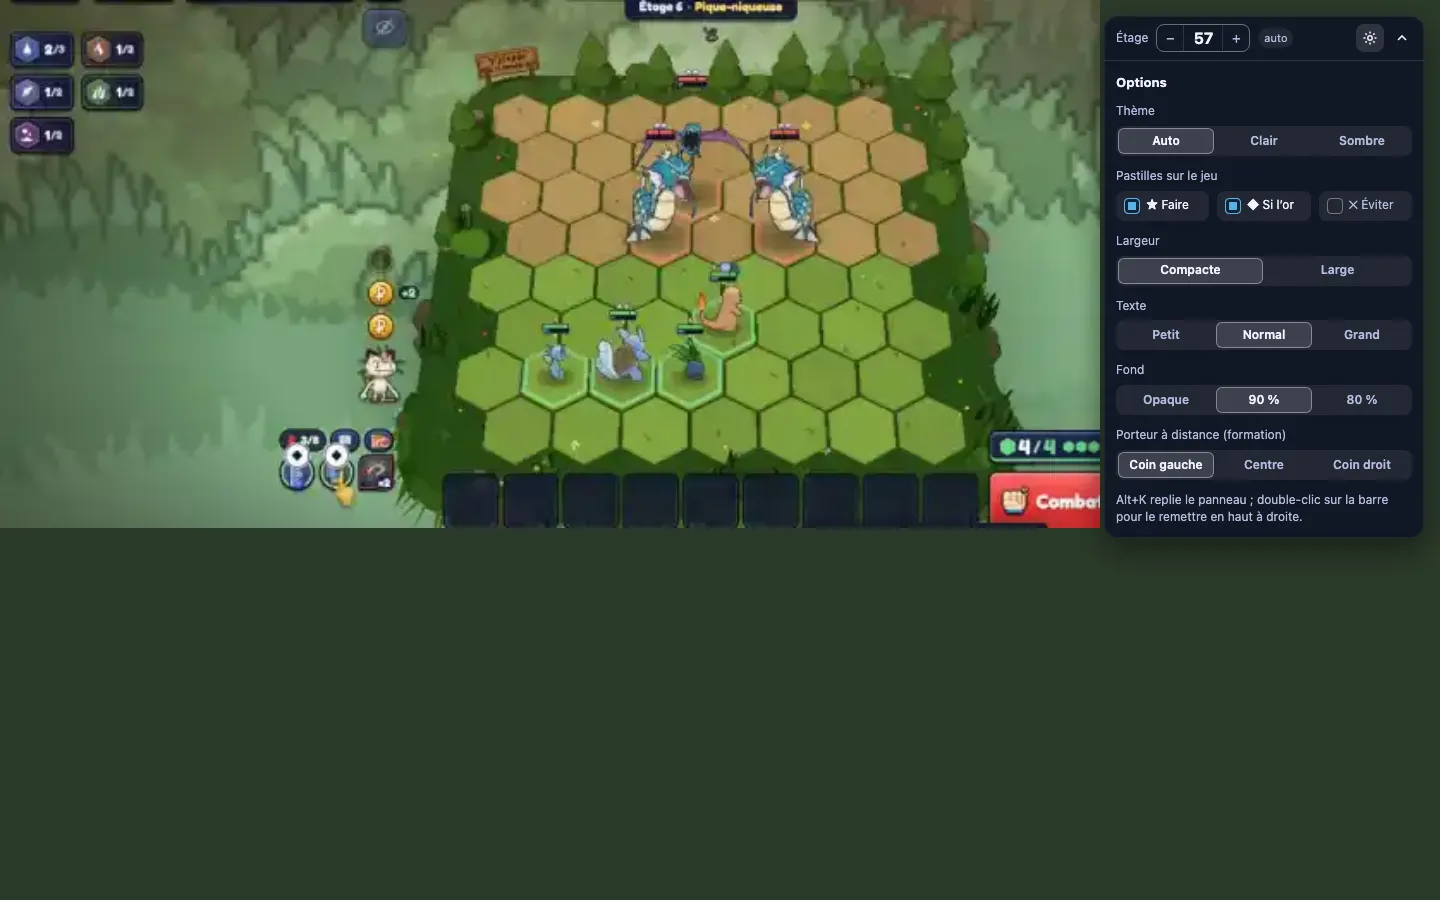
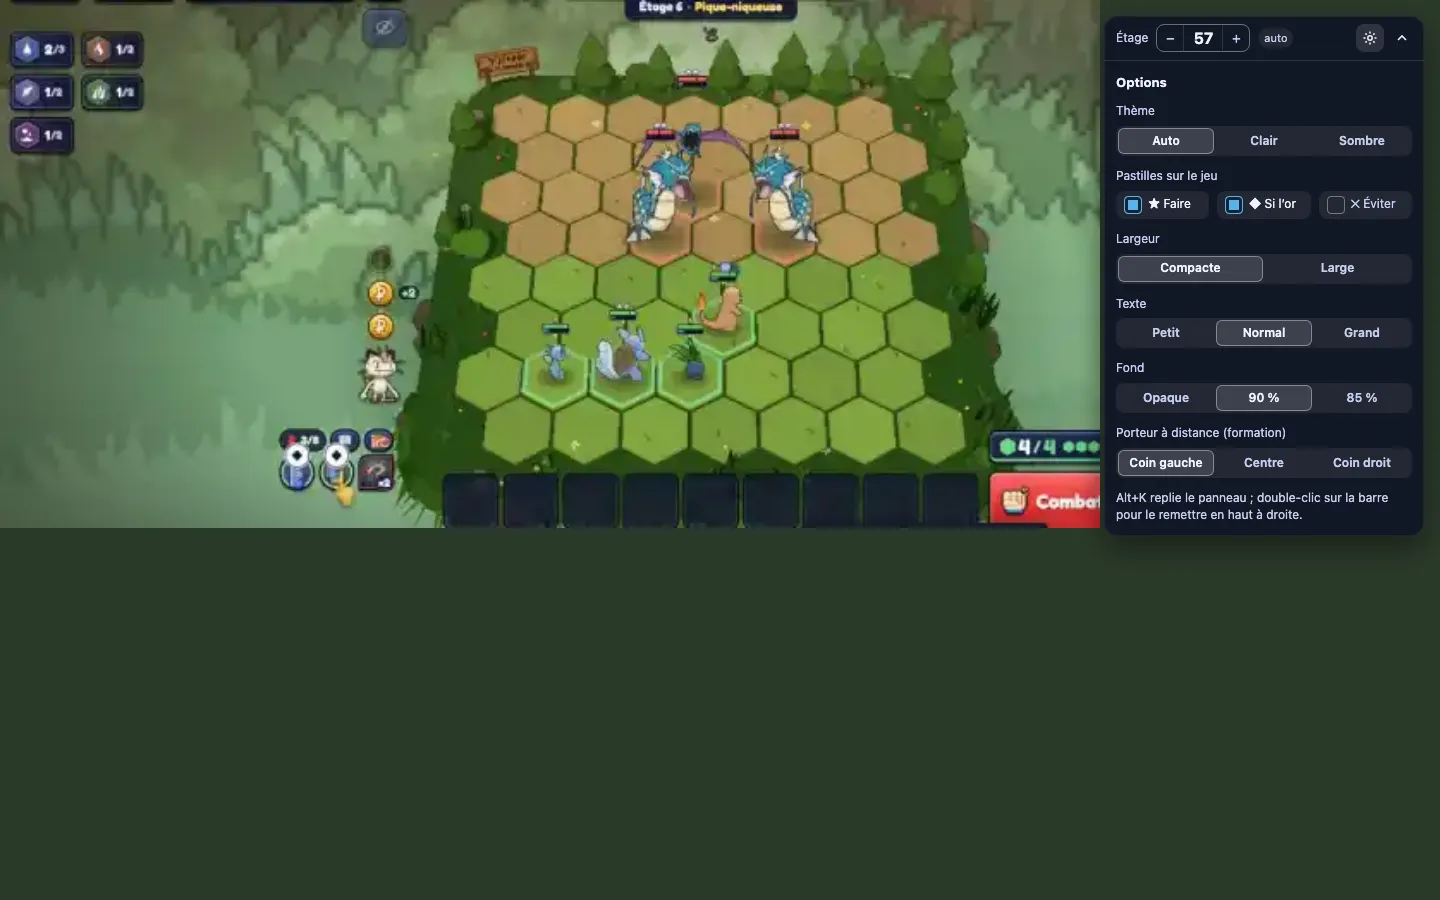
Captures et README de la revue 2 (fond 85 %, en-tête fixe)

diff --git a/README.md b/README.md
@@ -7,7 +7,7 @@ Panneau flottant, non officiel, pour la **Tour de combat** de [Kanto Tactics](ht
   ta partie** : quoi acheter, actualiser ou non, acheter de l'XP ou non, quoi vendre, quels objets fusionner et sur qui, lesquels retirer, quelle
   récompense et quelle bénédiction prendre, quand ancrer une forme ;
 - la compo cible écrite dans le **Planificateur** du jeu à chaque changement, sous le nom « Plan kanto-overlay », et activée :
-  ses ombres s'affichent sur le plateau. Le panneau liste les Pokémon à poser ou à déplacer (« Pose Caninos — avant, colonne 4 ») ;
+  ses ombres s'affichent sur le plateau. Le panneau liste les Pokémon à poser ou à déplacer (« Pose Caninos », avant, colonne 4) ;
 - un bouton **Copier la formation** : le même code `KT1;…`, pour le partager ou le coller à la main (Planificateur → Coller un code)
   si l'écriture automatique échoue ;
 - les règles d'or (intérêts, actualisation, shinies) pour la tranche d'étages en cours.
@@ -21,7 +21,7 @@ cible, compo suivante, objets visés, copie de la formation), **Boss** (taux, pr
 **Règles** (règles d'or de la tranche). Replié, le panneau garde l'étage, l'or à dépenser et le premier conseil ★.
 
 Le menu ⚙ règle le thème (auto, clair, sombre), les pastilles affichées par niveau, la largeur (320 ou 380 px), la taille du texte,
-l'opacité du fond (100, 90 ou 80 % : en deçà, le texte secondaire passe sous un contraste de 4,5:1 sur les zones claires du jeu)
+l'opacité du fond (100, 90 ou 85 % : en deçà, le texte secondaire passe sous un contraste de 4,5:1 sur les zones claires du jeu)
 et la zone du porteur dans la formation. Les réglages sont gardés dans le navigateur.
 
 Pages où il s'affiche : les pages d'entrée du jeu, `https://einoow.com/` et `/kanto-tactics`, `/tower`, `/pvp`, `/duo`, `/nuzlocke`
